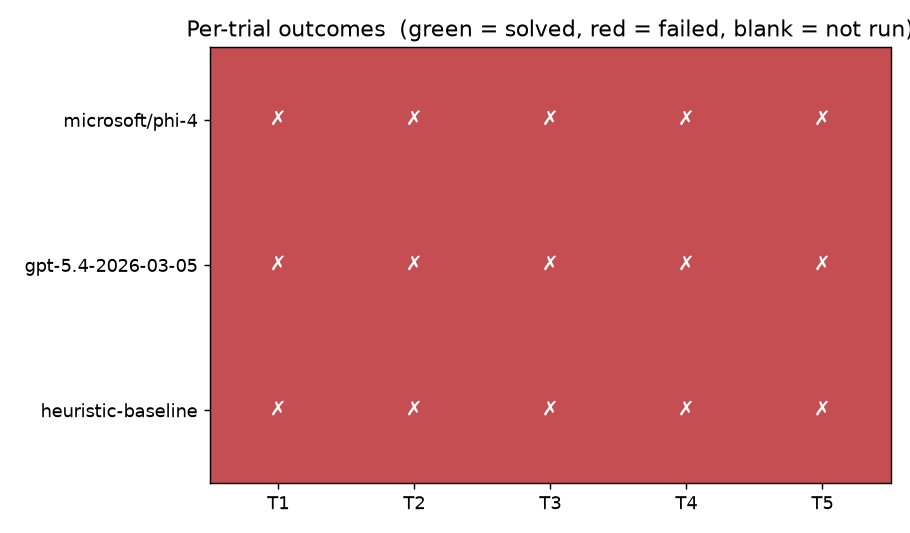
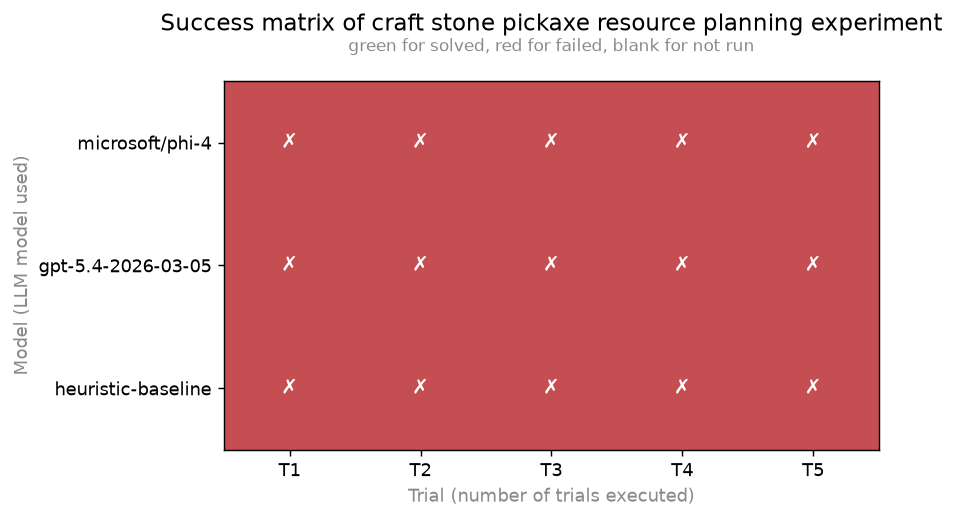
Added new graphs to analyze_results.py which is now more in depth

diff --git a/analyze_results.py b/analyze_results.py
@@ -7,11 +7,12 @@ achieved the objective. The experiment name appears in every title (underscores
 shown as spaces). Plots are written to <run_dir>/plots/:
 
   * success_rate.png      - fraction of trials solved, per model
-  * turns_to_success.png  - turns needed when solved
   * think_time.png        - mean seconds per decision, per model
-  * success_matrix.png    - model x trial grid
-  * token_usage.png       - tokens vs turns per trial, coloured by model,
-                            circle = solved, x = failed
+  * success_matrix.png    - model x trial grid, solved/failed/not run
+  * turns_to_solve.png    - model x trial grid, turns taken on solved trials
+  * turns_to_fail.png     - model x trial grid, turns taken on failed trials
+  * tokens_to_solve.png   - model x trial grid, tokens used on solved trials
+  * tokens_to_fail.png    - model x trial grid, tokens used on failed trials
 """
 
 from __future__ import annotations
@@ -104,24 +105,6 @@ def plot_success_rate(rows, out, experiment_name):
     _finish(fig, ax, out)
 
 
-def plot_turns_to_success(rows, out, experiment_name):
-    names = [r["name"] for r in rows]
-    means = [r["mean_solve_turns"] if r["mean_solve_turns"] is not None else 0 for r in rows]
-    fig, ax = plt.subplots(figsize=(max(6, 1.6 * len(names)), 4.5))
-    ax.bar(names, means, color=BAR_COLOR, alpha=0.75)
-    for i, r in enumerate(rows):
-        st = r["solve_turns"]
-        if not st:
-            continue
-        rs = np.random.RandomState(i)
-        jitter = (rs.rand(len(st)) - 0.5) * 0.25
-        ax.scatter(np.full(len(st), i) + jitter, st, color=OK_COLOR, s=28,
-                   zorder=3, edgecolor="white", linewidth=0.5)
-    ax.set_ylabel("Turns to reach the goal")
-    ax.set_title(f"Turns to success of {experiment_name}\n(bar = mean, dots = successful trials)")
-    _finish(fig, ax, out)
-
-
 def plot_think_time(rows, out, experiment_name):
     names = [r["name"] for r in rows]
     means = [r["mean_think"] if r["mean_think"] is not None else 0 for r in rows]
@@ -172,58 +155,141 @@ def plot_success_matrix(rows, out, experiment_name):
     plt.close(fig)
 
 
-def collect_token_points(results):
-    """One point per trial: model, turns_used, total_tokens, success.
-    Returns (points, any_tokens); any_tokens is False for runs with no token data."""
-    points = []
-    any_tokens = False
+def collect_trial_details(results):
+    """Per-model list of per-trial stats: whether it solved, how many turns it
+    took, and how many tokens it used (None if that trial has no token data).
+
+    "turns_used" is the same convention as summarise()'s solve_turns: for a
+    solved trial it's turns up to and including the solving turn; for a failed
+    trial it's every turn the trial ran.
+    """
+    details: dict[str, list[dict[str, Any]]] = {}
     for name, record in results.get("models", {}).items():
-        for trial in record.get("trials", []):
-            tt = [int(t["tokens"]) for t in trial.get("turns", []) if t.get("tokens") is not None]
-            if not tt:
-                continue
-            any_tokens = True
-            points.append({
-                "model": name,
-                "turns": len(trial.get("turns", [])),
-                "tokens": sum(tt),
-                "success": bool(trial.get("success", False)),
+        trials_out = []
+        for t in record.get("trials", []):
+            turns = t.get("turns", [])
+            success = bool(t.get("success", False))
+            if success and t.get("success_turn") is not None:
+                turns_used = int(t["success_turn"]) + 1
+            else:
+                turns_used = len(turns)
+            tok = [int(x["tokens"]) for x in turns if x.get("tokens") is not None]
+            trials_out.append({
+                "success": success,
+                "turns_used": turns_used,
+                "tokens_used": sum(tok) if tok else None,
             })
-    return points, any_tokens
+        details[name] = trials_out
+    return details
 
 
-def plot_tokens_vs_turns(results, out, experiment_name):
-    """Scatter: x = turns in a trial, y = total tokens that trial used.
-    Colour = model; circle = solved, x = failed."""
-    points, any_tokens = collect_token_points(results)
-    fig, ax = plt.subplots(figsize=(8, 5.5))
-    if not any_tokens:
-        ax.text(0.5, 0.5,
-                "No token data in this run.\n"
-                "Token usage is recorded from now on - run again to populate.",
-                ha="center", va="center", fontsize=11, color="#555555")
+def _sequential_cmap(colour):
+    return matplotlib.colors.LinearSegmentedColormap.from_list("seq", ["#ffffff", colour])
+
+
+def _plot_trial_grid(details, num_trials, out, *, value_key, keep_success,
+                      title, subtitle, cbar_label, colour, value_fmt, empty_message):
+    """Model x trial grid, one cell per trial that matches keep_success,
+    coloured and annotated by value_key. Mirrors plot_success_matrix's grid
+    layout so every per-trial plot in this module reads the same way."""
+    names = list(details.keys())
+    recorded = max((len(v) for v in details.values()), default=1)
+    n_cols = max(int(num_trials), recorded, 1)
+    grid = np.full((len(names), n_cols), np.nan)
+    for mi, name in enumerate(names):
+        for ti, trial in enumerate(details[name]):
+            if ti >= n_cols or trial["success"] != keep_success:
+                continue
+            v = trial[value_key]
+            if v is not None:
+                grid[mi, ti] = v
+
+    fig, ax = plt.subplots(figsize=(max(6, 0.8 * n_cols + 3), max(3, 0.7 * len(names) + 2)))
+    if not np.isfinite(grid).any():
+        ax.text(0.5, 0.5, empty_message, ha="center", va="center",
+                fontsize=11, color="#555555")
         ax.set_axis_off()
-        ax.set_title(f"Token usage of {experiment_name}")
+        ax.set_title(title, fontsize=13, pad=14)
         fig.tight_layout(); fig.savefig(out, dpi=130, bbox_inches="tight"); plt.close(fig)
         return
-    models = sorted({p["model"] for p in points})
-    cmap = plt.get_cmap("tab10" if len(models) <= 10 else "tab20")
-    colour_of = {m: cmap(i % cmap.N) for i, m in enumerate(models)}
-    for model in models:
-        for success, marker in ((True, "o"), (False, "X")):
-            xs = [p["turns"] for p in points if p["model"] == model and p["success"] == success]
-            ys = [p["tokens"] for p in points if p["model"] == model and p["success"] == success]
-            if not xs:
+
+    ax.set_facecolor(GRID_BG)
+    masked = np.ma.masked_invalid(grid)
+    im = ax.imshow(masked, cmap=_sequential_cmap(colour), aspect="auto")
+    ax.set_xticks(range(n_cols), [f"T{i + 1}" for i in range(n_cols)])
+    ax.set_yticks(range(len(names)), names)
+    vmax = float(np.nanmax(grid))
+    for mi in range(len(names)):
+        for ti in range(n_cols):
+            v = grid[mi, ti]
+            if np.isnan(v):
                 continue
-            ax.scatter(xs, ys, marker=marker, s=70, color=colour_of[model],
-                       edgecolor="white", linewidth=0.6, alpha=0.9,
-                       label=model if success else None, zorder=3)
-    ax.set_xlabel("Turns taken in the trial")
-    ax.set_ylabel("Total tokens used in the trial")
-    ax.set_title(f"Token usage of {experiment_name}\n(colour = model, circle = solved, x = failed)")
-    ax.spines[["top", "right"]].set_visible(False)
-    ax.legend(title="model", fontsize=8, loc="best", framealpha=0.9)
-    fig.tight_layout(); fig.savefig(out, dpi=130, bbox_inches="tight"); plt.close(fig)
+            text_colour = "white" if vmax and v / vmax > 0.55 else "#222222"
+            ax.text(ti, mi, value_fmt(v), ha="center", va="center",
+                    color=text_colour, fontsize=10)
+    ax.set_xlabel("Trial (number of trials executed)", color=LABEL_GRAY, fontsize=10)
+    ax.set_ylabel("Model (LLM model used)", color=LABEL_GRAY, fontsize=10)
+    ax.set_title(title, fontsize=13, pad=28)
+    ax.text(0.5, 1.07, subtitle, transform=ax.transAxes, ha="center", va="bottom",
+            fontsize=9.5, color=LABEL_GRAY)
+    cbar = fig.colorbar(im, ax=ax, fraction=0.046, pad=0.04)
+    cbar.set_label(cbar_label, color=LABEL_GRAY, fontsize=10)
+    cbar.ax.tick_params(colors=LABEL_GRAY, labelsize=8)
+    fig.tight_layout()
+    fig.savefig(out, dpi=130, bbox_inches="tight")
+    plt.close(fig)
+
+
+def plot_turns_to_solve(results, out, experiment_name):
+    """Model x trial grid: turns taken on trials that were solved."""
+    _plot_trial_grid(
+        collect_trial_details(results), results.get("num_trials", 0), out,
+        value_key="turns_used", keep_success=True,
+        title=f"Turns to solve of {experiment_name} experiment",
+        subtitle="blank = trial failed or wasn't run",
+        cbar_label="Turns", colour=OK_COLOR,
+        value_fmt=lambda v: f"{int(round(v))}",
+        empty_message="No solved trials in this run.",
+    )
+
+
+def plot_turns_to_fail(results, out, experiment_name):
+    """Model x trial grid: turns taken on trials that failed."""
+    _plot_trial_grid(
+        collect_trial_details(results), results.get("num_trials", 0), out,
+        value_key="turns_used", keep_success=False,
+        title=f"Turns to fail of {experiment_name} experiment",
+        subtitle="blank = trial solved or wasn't run",
+        cbar_label="Turns", colour=FAIL_COLOR,
+        value_fmt=lambda v: f"{int(round(v))}",
+        empty_message="No failed trials in this run.",
+    )
+
+
+def plot_tokens_to_solve(results, out, experiment_name):
+    """Model x trial grid: tokens used on trials that were solved."""
+    _plot_trial_grid(
+        collect_trial_details(results), results.get("num_trials", 0), out,
+        value_key="tokens_used", keep_success=True,
+        title=f"Tokens to solve of {experiment_name} experiment",
+        subtitle="blank = trial failed, wasn't run, or has no token data",
+        cbar_label="Tokens", colour=OK_COLOR,
+        value_fmt=lambda v: f"{int(round(v)):,}",
+        empty_message="No token data for solved trials in this run.",
+    )
+
+
+def plot_tokens_to_fail(results, out, experiment_name):
+    """Model x trial grid: tokens used on trials that failed."""
+    _plot_trial_grid(
+        collect_trial_details(results), results.get("num_trials", 0), out,
+        value_key="tokens_used", keep_success=False,
+        title=f"Tokens to fail of {experiment_name} experiment",
+        subtitle="blank = trial solved, wasn't run, or has no token data",
+        cbar_label="Tokens", colour=FAIL_COLOR,
+        value_fmt=lambda v: f"{int(round(v)):,}",
+        empty_message="No token data for failed trials in this run.",
+    )
 
 
 def _finish(fig, ax, out):
@@ -274,10 +340,12 @@ def main():
     plots_dir.mkdir(parents=True, exist_ok=True)
 
     plot_success_rate(rows, plots_dir / "success_rate.png", experiment_name)
-    plot_turns_to_success(rows, plots_dir / "turns_to_success.png", experiment_name)
     plot_think_time(rows, plots_dir / "think_time.png", experiment_name)
     plot_success_matrix(rows, plots_dir / "success_matrix.png", experiment_name)
-    plot_tokens_vs_turns(results, plots_dir / "token_usage.png", experiment_name)
+    plot_turns_to_solve(results, plots_dir / "turns_to_solve.png", experiment_name)
+    plot_turns_to_fail(results, plots_dir / "turns_to_fail.png", experiment_name)
+    plot_tokens_to_solve(results, plots_dir / "tokens_to_solve.png", experiment_name)
+    plot_tokens_to_fail(results, plots_dir / "tokens_to_fail.png", experiment_name)
 
     print_summary(results, rows)
     print(f"Plots written to {plots_dir}/")

diff --git a/studio.py b/studio.py
@@ -415,14 +415,17 @@ class Handler(BaseHTTPRequestHandler):
         plots = RUNS_DIR / run_name / "plots"
         plots.mkdir(parents=True, exist_ok=True)
         ar.plot_success_rate(rows, plots / "success_rate.png", name)
-        ar.plot_turns_to_success(rows, plots / "turns_to_success.png", name)
         ar.plot_think_time(rows, plots / "think_time.png", name)
         ar.plot_success_matrix(rows, plots / "success_matrix.png", name)
-        ar.plot_tokens_vs_turns(results, plots / "token_usage.png", name)
+        ar.plot_turns_to_solve(results, plots / "turns_to_solve.png", name)
+        ar.plot_turns_to_fail(results, plots / "turns_to_fail.png", name)
+        ar.plot_tokens_to_solve(results, plots / "tokens_to_solve.png", name)
+        ar.plot_tokens_to_fail(results, plots / "tokens_to_fail.png", name)
         # No longer generated (dropped from the Graphs page) - remove any
         # stale copies left over from before so they don't keep showing up.
         for stale_name in ("param_count_vs_accuracy.png", "accuracy_by_family.png",
-                           "success_rate_confidence_intervals.png"):
+                           "success_rate_confidence_intervals.png",
+                           "turns_to_success.png", "token_usage.png"):
             stale = plots / stale_name
             if stale.exists():
                 stale.unlink()

diff --git a/main.py b/main.py
@@ -113,10 +113,12 @@ def main() -> None:
         name = analyze_results.get_experiment_name(results, cfg.results_path)
         cfg.plots_dir.mkdir(parents=True, exist_ok=True)
         analyze_results.plot_success_rate(rows, cfg.plots_dir / "success_rate.png", name)
-        analyze_results.plot_turns_to_success(rows, cfg.plots_dir / "turns_to_success.png", name)
         analyze_results.plot_think_time(rows, cfg.plots_dir / "think_time.png", name)
         analyze_results.plot_success_matrix(rows, cfg.plots_dir / "success_matrix.png", name)
-        analyze_results.plot_tokens_vs_turns(results, cfg.plots_dir / "token_usage.png", name)
+        analyze_results.plot_turns_to_solve(results, cfg.plots_dir / "turns_to_solve.png", name)
+        analyze_results.plot_turns_to_fail(results, cfg.plots_dir / "turns_to_fail.png", name)
+        analyze_results.plot_tokens_to_solve(results, cfg.plots_dir / "tokens_to_solve.png", name)
+        analyze_results.plot_tokens_to_fail(results, cfg.plots_dir / "tokens_to_fail.png", name)
         analyze_results.print_summary(results, rows)
 
     if not args.skip_viewer:
